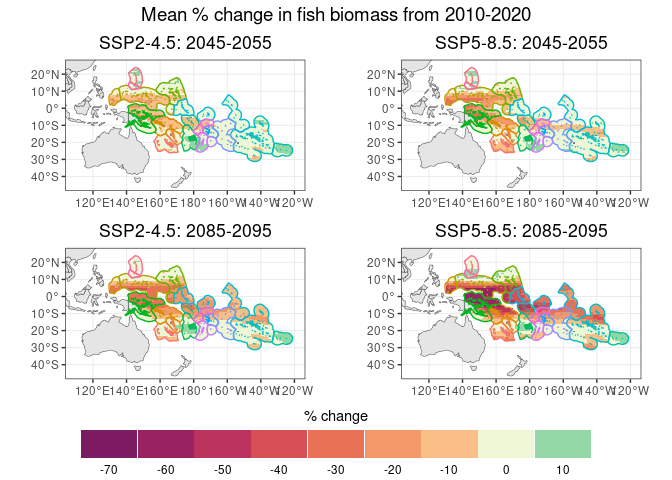
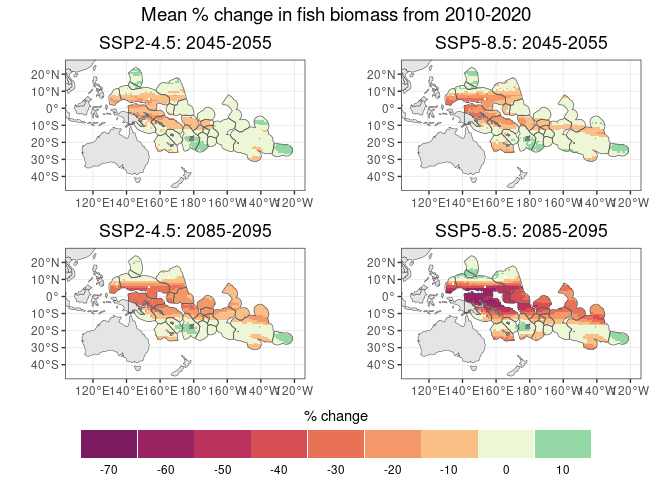
producing final maps

diff --git a/Scripts/06_Mapping_biomass_change_SouthPacific.md b/Scripts/06_Mapping_biomass_change_SouthPacific.md
@@ -36,6 +36,7 @@ library(rnaturalearth)
 library(cmocean)
 library(cowplot)
 library(sf)
+library(nngeo)
 ```
 
 # Loading information about PICTs
@@ -208,7 +209,7 @@ mask_base <- read_csv("../Outputs/mask_1deg.csv") |>
   rename(x = Lon, y = Lat)
 ```
 
-    ## Rows: 2356 Columns: 3
+    ## Rows: 2746 Columns: 3
     ## ── Column specification ────────────────────────────────────────────────────────
     ## Delimiter: ","
     ## dbl (3): Lon, Lat, mask
@@ -270,7 +271,9 @@ picts <- read_sf("../Outputs/SouthPacific_EEZ-GBR.shp") |>
   #Ensure ID and name are factors
   mutate(ID_1 = as.factor(ID_1)) |> 
   #Ensuring shapefile crosses the international dateline
-  st_shift_longitude()
+  st_shift_longitude() |> 
+  #Removing holes from islands inside EEZ
+  st_remove_holes()
 ```
 
     ## `summarise()` has grouped output by 'ID_1'. You can override using the
@@ -299,6 +302,8 @@ pal <- c(cmocean("matter", start = 0.1, end = 0.8, direction = -1)(179),
 All maps share the same colour palette, so we will not include legends
 in any of them except for the last one.
 
+Grey cells are areas with no data in the models.
+
 ``` r
 #SSP2-4.5 2045-2055 
 p50_245 <- maps_data |>
@@ -306,9 +311,9 @@ p50_245 <- maps_data |>
   geom_tile()+
   scale_fill_stepsn(colors = pal, n.breaks = 11, 
                     limits = c(-75, 15), show.limits = T)+
+  geom_sf(inherit.aes = F, data = picts, fill = NA, 
+          show.legend = F, linewidth = 0.25)+
   geom_sf(inherit.aes = F, data = world)+
-  geom_sf(inherit.aes = F, data = picts, fill = NA, aes(color = ID_1), 
-          show.legend = F, linewidth = 0.5)+
   theme_bw()+
   labs(title = "SSP2-4.5: 2045-2055")+
   theme(axis.title = element_blank(), 
@@ -322,9 +327,9 @@ p50_585 <- maps_data |>
   geom_tile()+
   scale_fill_stepsn(colors = pal, n.breaks = 11, 
                     limits = c(-75, 15), show.limits = T)+
+  geom_sf(inherit.aes = F, data = picts, fill = NA, 
+          show.legend = F, linewidth = 0.25)+
   geom_sf(inherit.aes = F, data = world)+
-  geom_sf(inherit.aes = F, data = picts, fill = NA, aes(color = ID_1), 
-          show.legend = F, linewidth = 0.5)+
   theme_bw()+
   labs(title = "SSP5-8.5: 2045-2055")+
   theme(axis.title = element_blank(), 
@@ -338,9 +343,9 @@ p80_245 <- maps_data |>
   geom_tile()+
   scale_fill_stepsn(colors = pal, n.breaks = 11, 
                     limits = c(-75, 15), show.limits = T)+
+  geom_sf(inherit.aes = F, data = picts, fill = NA,
+          show.legend = F, linewidth = 0.25)+
   geom_sf(inherit.aes = F, data = world)+
-  geom_sf(inherit.aes = F, data = picts, fill = NA, aes(color = ID_1), 
-          show.legend = F, linewidth = 0.5)+
   theme_bw()+
   labs(title = "SSP2-4.5: 2085-2095")+
   theme(axis.title = element_blank(), 
@@ -354,9 +359,9 @@ p80_585 <- maps_data |>
   geom_tile()+
   scale_fill_stepsn(colors = pal, n.breaks = 11, 
                     limits = c(-75, 15), show.limits = T)+
+  geom_sf(inherit.aes = F, data = picts, fill = NA, 
+          show.legend = F, linewidth = 0.25)+
   geom_sf(inherit.aes = F, data = world)+
-  geom_sf(inherit.aes = F, data = picts, fill = NA, aes(color = ID_1), 
-          show.legend = F, linewidth = 0.5)+
   theme_bw()+
   guides(fill = guide_legend(title = "% change", title.position = "top", 
                              title.hjust = 0.5, 
@@ -394,5 +399,5 @@ all_plots
 ## Saving final plot
 
 ``` r
-ggsave("../Outputs/sample_maps_perc_change.pdf", device = "pdf", width = 14, height = 9)
+ggsave("../Outputs/maps_perc_change_PICTs_40s-80s.pdf", device = "pdf", width = 14, height = 9)
 ```
